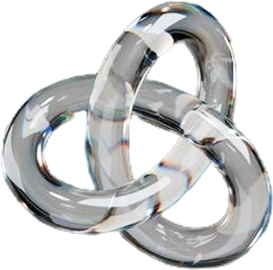
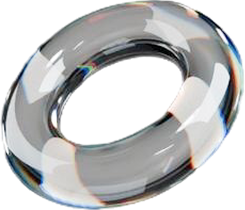
style: About 섹션 상하 패딩 축소

diff --git a/src/components/sections/AboutSection.tsx b/src/components/sections/AboutSection.tsx
@@ -61,7 +61,7 @@ export function AboutSection({ active }: AboutSectionProps) {
       id={def.id}
       className="relative flex h-dvh w-full flex-col justify-between overflow-hidden"
     >
-      <Container className="pt-[clamp(71px,8.61vw,124px)] max-md:pt-22">
+      <Container className="pt-[clamp(57px,6.94vw,100px)] max-md:pt-22">
         <motion.p
           variants={RISE}
           initial="hidden"
@@ -90,7 +90,7 @@ export function AboutSection({ active }: AboutSectionProps) {
         </motion.p>
       </Container>
 
-      <Container className="pb-[clamp(71px,8.61vw,124px)] max-md:pb-12">
+      <Container className="pb-[clamp(57px,6.94vw,100px)] max-md:pb-12">
         {/* 데스크탑: 인터랙티브 카드 */}
         <div className="max-md:hidden">
           <AboutCards active={active} />